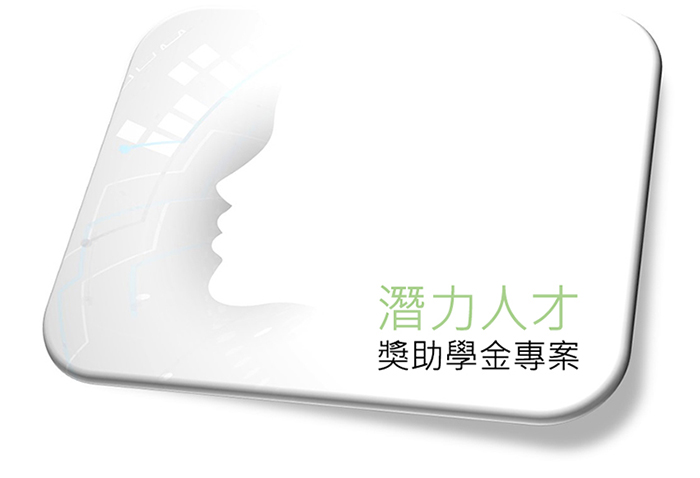
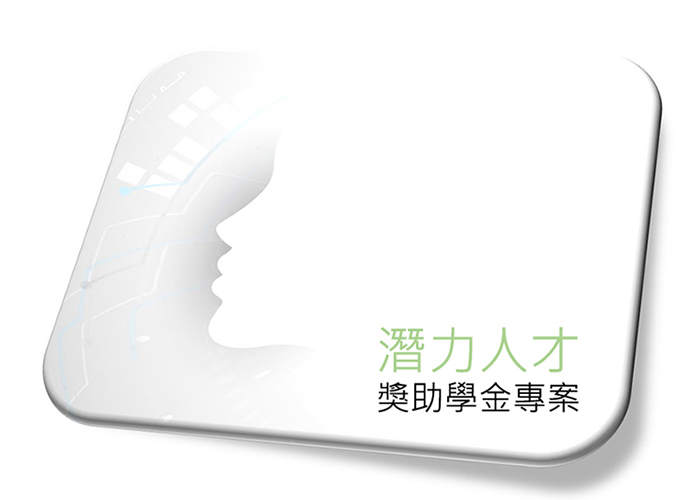
220

diff --git a/index.html b/index.html
@@ -41,7 +41,7 @@ a:active {
 <table width="1500" border="0" align="center" cellpadding="0" cellspacing="0">
   <tr>
     <td width="25%" colspan="2">&nbsp;</td>
-    <td colspan="2" rowspan="11" align="center"><img src="images/02-1.jpg" width="700" height="478" border="0" />
+    <td colspan="2" rowspan="11" align="center"><img src="images/02-1.jpg" width="700" height="500" border="0" />
       <table width="35%" border="0" cellspacing="0" cellpadding="0">
         <tr>
           <td align="left"><img src="images/02.jpg" width="50" height="32" border="0" />　<span class="t10">我要申請.....</span></td>
